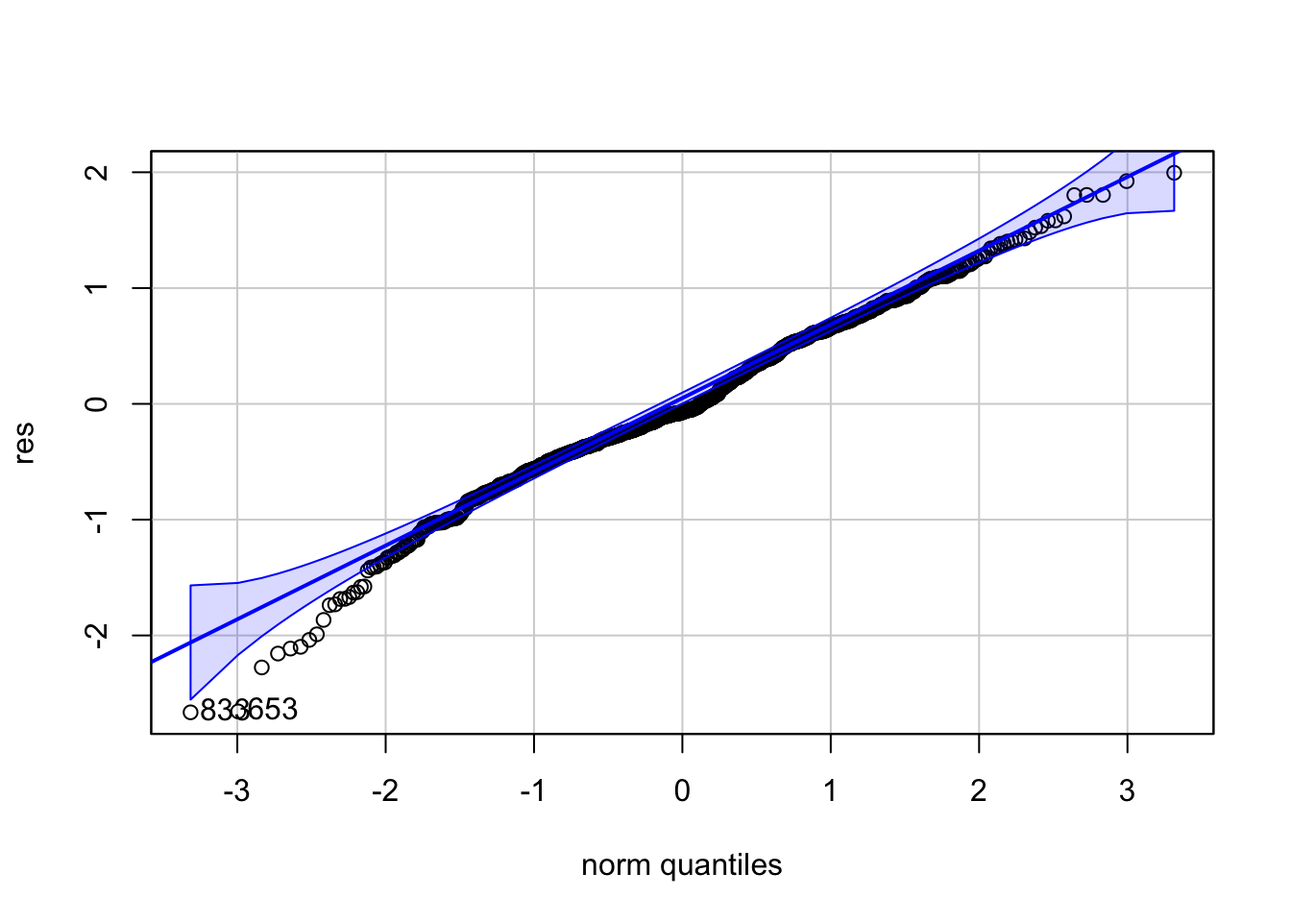
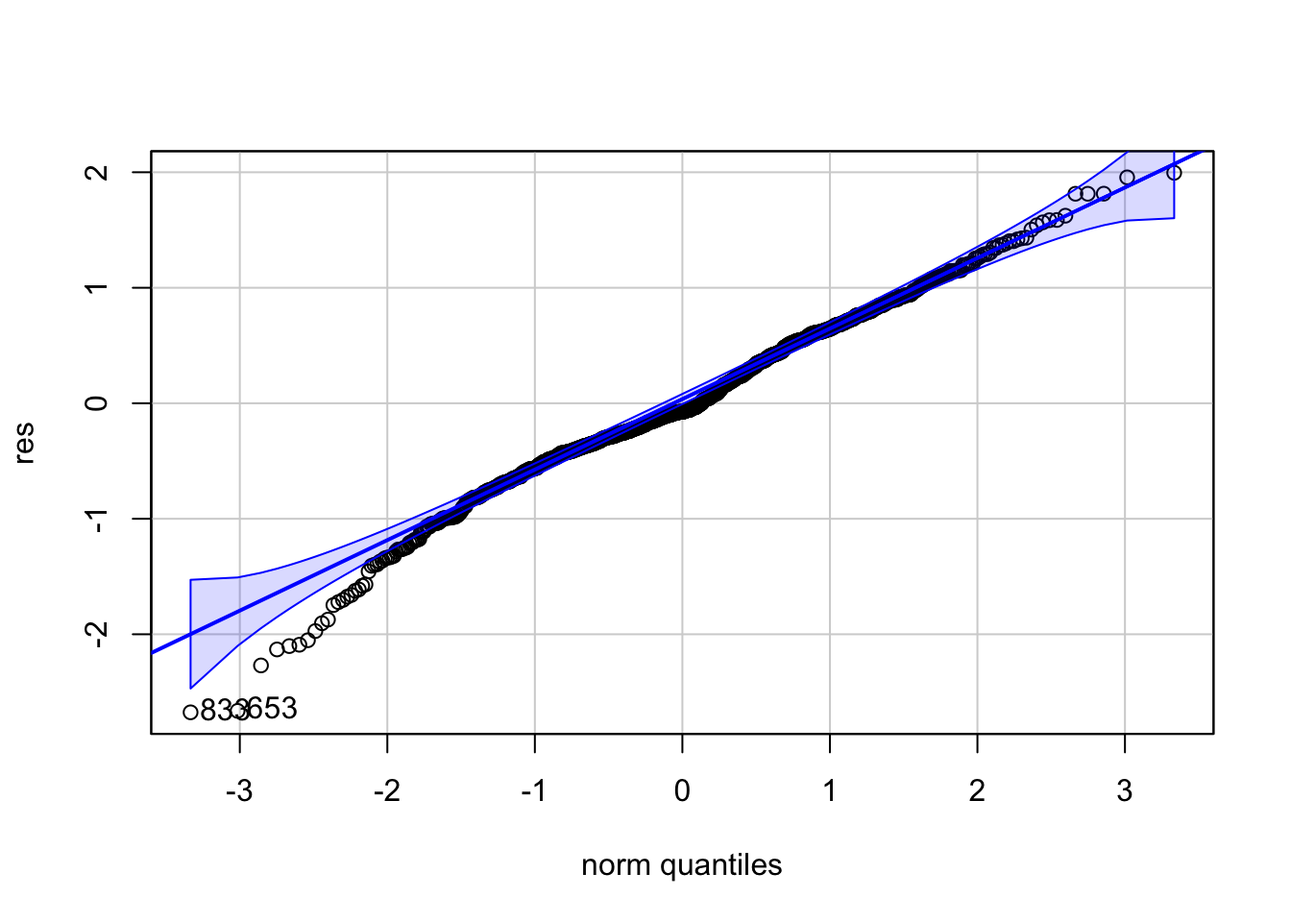
XII1

diff --git a/docs/session3.html b/docs/session3.html
@@ -421,7 +421,10 @@ div.tocify {
   <a href="session2.html">Lesson 2</a>
 </li>
 <li>
-  <a href="lesson_three.html">Lesson 3</a>
+  <a href="session3.html">Lesson 3</a>
+</li>
+<li>
+  <a href="session4.html">Lesson 4</a>
 </li>
       </ul>
       <ul class="nav navbar-nav navbar-right">
@@ -731,45 +734,61 @@ density 9 - pH 10 - sulphates 11 - alcohol</p>
 <span id="cb3-2"><a href="#cb3-2" tabindex="-1"></a><span class="fu">library</span>(tibble)</span>
 <span id="cb3-3"><a href="#cb3-3" tabindex="-1"></a><span class="fu">library</span>(tidyr)</span>
 <span id="cb3-4"><a href="#cb3-4" tabindex="-1"></a><span class="fu">library</span>(ggplot2)</span>
-<span id="cb3-5"><a href="#cb3-5" tabindex="-1"></a><span class="fu">library</span>(corrplot)</span>
-<span id="cb3-6"><a href="#cb3-6" tabindex="-1"></a><span class="fu">library</span>(car)</span>
-<span id="cb3-7"><a href="#cb3-7" tabindex="-1"></a><span class="fu">library</span>(caret)</span></code></pre></div>
+<span id="cb3-5"><a href="#cb3-5" tabindex="-1"></a><span class="fu">library</span>(corrplot)</span></code></pre></div>
+<pre><code>## corrplot 0.92 loaded</code></pre>
+<div class="sourceCode" id="cb5"><pre class="sourceCode r"><code class="sourceCode r"><span id="cb5-1"><a href="#cb5-1" tabindex="-1"></a><span class="fu">library</span>(car)</span></code></pre></div>
+<pre><code>## Loading required package: carData</code></pre>
+<pre><code>## 
+## Attaching package: &#39;car&#39;</code></pre>
+<pre><code>## The following object is masked from &#39;package:dplyr&#39;:
+## 
+##     recode</code></pre>
+<pre><code>## The following object is masked from &#39;package:purrr&#39;:
+## 
+##     some</code></pre>
+<div class="sourceCode" id="cb10"><pre class="sourceCode r"><code class="sourceCode r"><span id="cb10-1"><a href="#cb10-1" tabindex="-1"></a><span class="fu">library</span>(caret)</span></code></pre></div>
+<pre><code>## Loading required package: lattice</code></pre>
+<pre><code>## 
+## Attaching package: &#39;caret&#39;</code></pre>
+<pre><code>## The following object is masked from &#39;package:purrr&#39;:
+## 
+##     lift</code></pre>
 <p><br />
 <br />
 </p>
 </div>
 <div id="data-import" class="section level4">
 <h4>Data Import</h4>
-<div class="sourceCode" id="cb4"><pre class="sourceCode r"><code class="sourceCode r"><span id="cb4-1"><a href="#cb4-1" tabindex="-1"></a><span class="co"># if file does not exist, download it first</span></span>
-<span id="cb4-2"><a href="#cb4-2" tabindex="-1"></a>file_path <span class="ot">&lt;-</span> <span class="st">&quot;./data/winequality-red.csv&quot;</span></span>
-<span id="cb4-3"><a href="#cb4-3" tabindex="-1"></a><span class="cf">if</span> (<span class="sc">!</span><span class="fu">file.exists</span>(file_path)) {</span>
-<span id="cb4-4"><a href="#cb4-4" tabindex="-1"></a>  <span class="fu">dir.create</span>(<span class="st">&quot;./data&quot;</span>)</span>
-<span id="cb4-5"><a href="#cb4-5" tabindex="-1"></a>  url <span class="ot">&lt;-</span> <span class="st">&quot;https://archive.ics.uci.edu/ml/machine-learning-databases/wine-quality/winequality-red.csv&quot;</span></span>
-<span id="cb4-6"><a href="#cb4-6" tabindex="-1"></a>  <span class="fu">download.file</span>(<span class="at">url =</span> url, </span>
-<span id="cb4-7"><a href="#cb4-7" tabindex="-1"></a>                <span class="at">destfile =</span> file_path)</span>
-<span id="cb4-8"><a href="#cb4-8" tabindex="-1"></a>}</span>
-<span id="cb4-9"><a href="#cb4-9" tabindex="-1"></a></span>
-<span id="cb4-10"><a href="#cb4-10" tabindex="-1"></a>df <span class="ot">&lt;-</span> <span class="fu">read.csv</span>(file_path, <span class="at">sep =</span> <span class="st">&quot;;&quot;</span>)</span></code></pre></div>
+<div class="sourceCode" id="cb14"><pre class="sourceCode r"><code class="sourceCode r"><span id="cb14-1"><a href="#cb14-1" tabindex="-1"></a><span class="co"># if file does not exist, download it first</span></span>
+<span id="cb14-2"><a href="#cb14-2" tabindex="-1"></a>file_path <span class="ot">&lt;-</span> <span class="st">&quot;./data/winequality-red.csv&quot;</span></span>
+<span id="cb14-3"><a href="#cb14-3" tabindex="-1"></a><span class="cf">if</span> (<span class="sc">!</span><span class="fu">file.exists</span>(file_path)) {</span>
+<span id="cb14-4"><a href="#cb14-4" tabindex="-1"></a>  <span class="fu">dir.create</span>(<span class="st">&quot;./data&quot;</span>)</span>
+<span id="cb14-5"><a href="#cb14-5" tabindex="-1"></a>  url <span class="ot">&lt;-</span> <span class="st">&quot;https://archive.ics.uci.edu/ml/machine-learning-databases/wine-quality/winequality-red.csv&quot;</span></span>
+<span id="cb14-6"><a href="#cb14-6" tabindex="-1"></a>  <span class="fu">download.file</span>(<span class="at">url =</span> url, </span>
+<span id="cb14-7"><a href="#cb14-7" tabindex="-1"></a>                <span class="at">destfile =</span> file_path)</span>
+<span id="cb14-8"><a href="#cb14-8" tabindex="-1"></a>}</span>
+<span id="cb14-9"><a href="#cb14-9" tabindex="-1"></a></span>
+<span id="cb14-10"><a href="#cb14-10" tabindex="-1"></a>df <span class="ot">&lt;-</span> <span class="fu">read.csv</span>(file_path, <span class="at">sep =</span> <span class="st">&quot;;&quot;</span>)</span></code></pre></div>
 <p><br />
 </p>
 </div>
 <div id="data-summary" class="section level4">
 <h4>Data Summary</h4>
-<div class="sourceCode" id="cb5"><pre class="sourceCode r"><code class="sourceCode r"><span id="cb5-1"><a href="#cb5-1" tabindex="-1"></a><span class="fu">summary</span>(df)</span></code></pre></div>
-<pre><code>##  fixed.acidity    volatile.acidity  citric.acid     residual.sugar     chlorides       free.sulfur.dioxide total.sulfur.dioxide    density      
-##  Min.   : 4.600   Min.   :0.1200   Min.   :0.0000   Min.   : 0.900   Min.   :0.01200   Min.   : 1.00       Min.   :  6.00       Min.   :0.9901  
-##  1st Qu.: 7.400   1st Qu.:0.3900   1st Qu.:0.1200   1st Qu.: 1.900   1st Qu.:0.07200   1st Qu.: 7.00       1st Qu.: 22.00       1st Qu.:0.9962  
-##  Median : 8.300   Median :0.5100   Median :0.2850   Median : 2.300   Median :0.08100   Median :13.00       Median : 38.00       Median :0.9972  
-##  Mean   : 8.703   Mean   :0.5226   Mean   :0.2963   Mean   : 2.584   Mean   :0.08977   Mean   :15.28       Mean   : 47.69       Mean   :0.9972  
-##  3rd Qu.: 9.800   3rd Qu.:0.6300   3rd Qu.:0.4700   3rd Qu.: 2.700   3rd Qu.:0.09300   3rd Qu.:21.00       3rd Qu.: 63.00       3rd Qu.:0.9982  
-##  Max.   :15.900   Max.   :1.3300   Max.   :1.0000   Max.   :15.500   Max.   :0.61100   Max.   :68.00       Max.   :289.00       Max.   :1.0032  
-##                                                     NA&#39;s   :1        NA&#39;s   :1         NA&#39;s   :1           NA&#39;s   :1            NA&#39;s   :1       
+<div class="sourceCode" id="cb15"><pre class="sourceCode r"><code class="sourceCode r"><span id="cb15-1"><a href="#cb15-1" tabindex="-1"></a><span class="fu">summary</span>(df)</span></code></pre></div>
+<pre><code>##  fixed.acidity    volatile.acidity  citric.acid     residual.sugar     chlorides      free.sulfur.dioxide total.sulfur.dioxide    density      
+##  Min.   : 4.600   Min.   :0.1200   Min.   :0.0000   Min.   : 0.900   Min.   :0.0120   Min.   : 1.00       Min.   :  6.00       Min.   :0.9901  
+##  1st Qu.: 7.400   1st Qu.:0.3900   1st Qu.:0.1200   1st Qu.: 1.900   1st Qu.:0.0710   1st Qu.: 7.00       1st Qu.: 21.50       1st Qu.:0.9961  
+##  Median : 8.300   Median :0.5000   Median :0.2900   Median : 2.200   Median :0.0810   Median :13.00       Median : 38.00       Median :0.9971  
+##  Mean   : 8.655   Mean   :0.5183   Mean   :0.2954   Mean   : 2.567   Mean   :0.0895   Mean   :15.25       Mean   : 46.92       Mean   :0.9971  
+##  3rd Qu.: 9.600   3rd Qu.:0.6300   3rd Qu.:0.4600   3rd Qu.: 2.700   3rd Qu.:0.0920   3rd Qu.:21.00       3rd Qu.: 63.00       3rd Qu.:0.9982  
+##  Max.   :15.900   Max.   :1.3300   Max.   :1.0000   Max.   :15.500   Max.   :0.6110   Max.   :68.00       Max.   :289.00       Max.   :1.0032  
+##                                                                                                           NA&#39;s   :1            NA&#39;s   :1       
 ##        pH          sulphates         alcohol         quality     
 ##  Min.   :2.740   Min.   :0.3300   Min.   : 8.40   Min.   :3.000  
 ##  1st Qu.:3.190   1st Qu.:0.5600   1st Qu.: 9.50   1st Qu.:5.000  
 ##  Median :3.300   Median :0.6200   Median :10.00   Median :6.000  
-##  Mean   :3.296   Mean   :0.6666   Mean   :10.31   Mean   :5.643  
-##  3rd Qu.:3.390   3rd Qu.:0.7350   3rd Qu.:10.90   3rd Qu.:6.000  
+##  Mean   :3.297   Mean   :0.6666   Mean   :10.37   Mean   :5.663  
+##  3rd Qu.:3.390   3rd Qu.:0.7400   3rd Qu.:11.00   3rd Qu.:6.000  
 ##  Max.   :3.900   Max.   :2.0000   Max.   :14.90   Max.   :8.000  
 ##  NA&#39;s   :1       NA&#39;s   :1        NA&#39;s   :1       NA&#39;s   :1</code></pre>
 </div>
@@ -778,26 +797,26 @@ density 9 - pH 10 - sulphates 11 - alcohol</p>
 <p>There is a way to plot all multivariate correlations (although
 visually not so appealing). It also does not work, if there are many
 dimensions. You need to subset the results.</p>
-<div class="sourceCode" id="cb7"><pre class="sourceCode r"><code class="sourceCode r"><span id="cb7-1"><a href="#cb7-1" tabindex="-1"></a><span class="fu">pairs</span>(df[, <span class="dv">8</span><span class="sc">:</span><span class="dv">12</span>])</span></code></pre></div>
+<div class="sourceCode" id="cb17"><pre class="sourceCode r"><code class="sourceCode r"><span id="cb17-1"><a href="#cb17-1" tabindex="-1"></a><span class="fu">pairs</span>(df[, <span class="dv">8</span><span class="sc">:</span><span class="dv">12</span>])</span></code></pre></div>
 <p><img src="session3_files/figure-html/unnamed-chunk-4-1.png" width="672" /></p>
 <p>We create our own visualisation, that is much better to read.</p>
-<div class="sourceCode" id="cb8"><pre class="sourceCode r"><code class="sourceCode r"><span id="cb8-1"><a href="#cb8-1" tabindex="-1"></a>df_scaled <span class="ot">&lt;-</span> df <span class="sc">%&gt;%</span> </span>
-<span id="cb8-2"><a href="#cb8-2" tabindex="-1"></a>  <span class="fu">scale</span>() <span class="sc">%&gt;%</span> </span>
-<span id="cb8-3"><a href="#cb8-3" tabindex="-1"></a>  <span class="fu">as.tibble</span>()</span></code></pre></div>
+<div class="sourceCode" id="cb18"><pre class="sourceCode r"><code class="sourceCode r"><span id="cb18-1"><a href="#cb18-1" tabindex="-1"></a>df_scaled <span class="ot">&lt;-</span> df <span class="sc">%&gt;%</span> </span>
+<span id="cb18-2"><a href="#cb18-2" tabindex="-1"></a>  <span class="fu">scale</span>() <span class="sc">%&gt;%</span> </span>
+<span id="cb18-3"><a href="#cb18-3" tabindex="-1"></a>  <span class="fu">as.tibble</span>()</span></code></pre></div>
 <pre><code>## Warning: `as.tibble()` was deprecated in tibble 2.0.0.
 ## ℹ Please use `as_tibble()` instead.
 ## ℹ The signature and semantics have changed, see `?as_tibble`.
 ## This warning is displayed once every 8 hours.
 ## Call `lifecycle::last_lifecycle_warnings()` to see where this warning was generated.</code></pre>
-<div class="sourceCode" id="cb10"><pre class="sourceCode r"><code class="sourceCode r"><span id="cb10-1"><a href="#cb10-1" tabindex="-1"></a>df_gather <span class="ot">&lt;-</span> df_scaled <span class="sc">%&gt;%</span> </span>
-<span id="cb10-2"><a href="#cb10-2" tabindex="-1"></a>  <span class="fu">gather</span>(<span class="at">key =</span> <span class="st">&quot;variable&quot;</span>, <span class="at">value =</span> <span class="st">&quot;value&quot;</span>, <span class="dv">1</span><span class="sc">:</span><span class="dv">11</span>) <span class="sc">%&gt;%</span> </span>
-<span id="cb10-3"><a href="#cb10-3" tabindex="-1"></a>  <span class="fu">mutate</span>(<span class="at">variable =</span> <span class="fu">as.factor</span>(variable))</span>
-<span id="cb10-4"><a href="#cb10-4" tabindex="-1"></a></span>
-<span id="cb10-5"><a href="#cb10-5" tabindex="-1"></a>g <span class="ot">&lt;-</span><span class="fu">ggplot</span>(df_gather, <span class="fu">aes</span>(<span class="at">x =</span> quality, <span class="at">y =</span> value))</span>
-<span id="cb10-6"><a href="#cb10-6" tabindex="-1"></a>g <span class="ot">&lt;-</span> g <span class="sc">+</span> <span class="fu">facet_wrap</span>( <span class="sc">~</span> variable)</span>
-<span id="cb10-7"><a href="#cb10-7" tabindex="-1"></a>g <span class="ot">&lt;-</span> g <span class="sc">+</span> <span class="fu">geom_point</span>()</span>
-<span id="cb10-8"><a href="#cb10-8" tabindex="-1"></a>g <span class="ot">&lt;-</span> g <span class="sc">+</span> <span class="fu">geom_smooth</span>(<span class="at">se =</span> F, <span class="at">method =</span> <span class="st">&quot;lm&quot;</span>)</span>
-<span id="cb10-9"><a href="#cb10-9" tabindex="-1"></a>g</span></code></pre></div>
+<div class="sourceCode" id="cb20"><pre class="sourceCode r"><code class="sourceCode r"><span id="cb20-1"><a href="#cb20-1" tabindex="-1"></a>df_gather <span class="ot">&lt;-</span> df_scaled <span class="sc">%&gt;%</span> </span>
+<span id="cb20-2"><a href="#cb20-2" tabindex="-1"></a>  <span class="fu">gather</span>(<span class="at">key =</span> <span class="st">&quot;variable&quot;</span>, <span class="at">value =</span> <span class="st">&quot;value&quot;</span>, <span class="dv">1</span><span class="sc">:</span><span class="dv">11</span>) <span class="sc">%&gt;%</span> </span>
+<span id="cb20-3"><a href="#cb20-3" tabindex="-1"></a>  <span class="fu">mutate</span>(<span class="at">variable =</span> <span class="fu">as.factor</span>(variable))</span>
+<span id="cb20-4"><a href="#cb20-4" tabindex="-1"></a></span>
+<span id="cb20-5"><a href="#cb20-5" tabindex="-1"></a>g <span class="ot">&lt;-</span><span class="fu">ggplot</span>(df_gather, <span class="fu">aes</span>(<span class="at">x =</span> quality, <span class="at">y =</span> value))</span>
+<span id="cb20-6"><a href="#cb20-6" tabindex="-1"></a>g <span class="ot">&lt;-</span> g <span class="sc">+</span> <span class="fu">facet_wrap</span>( <span class="sc">~</span> variable)</span>
+<span id="cb20-7"><a href="#cb20-7" tabindex="-1"></a>g <span class="ot">&lt;-</span> g <span class="sc">+</span> <span class="fu">geom_point</span>()</span>
+<span id="cb20-8"><a href="#cb20-8" tabindex="-1"></a>g <span class="ot">&lt;-</span> g <span class="sc">+</span> <span class="fu">geom_smooth</span>(<span class="at">se =</span> F, <span class="at">method =</span> <span class="st">&quot;lm&quot;</span>)</span>
+<span id="cb20-9"><a href="#cb20-9" tabindex="-1"></a>g</span></code></pre></div>
 <pre><code>## `geom_smooth()` using formula = &#39;y ~ x&#39;</code></pre>
 <pre><code>## Warning: Removed 11 rows containing non-finite values (`stat_smooth()`).</code></pre>
 <pre><code>## Warning: Removed 11 rows containing missing values (`geom_point()`).</code></pre>
@@ -807,22 +826,22 @@ dimensions. You need to subset the results.</p>
 <h4>Correlation Matrix</h4>
 <p>Assuming there is a linear relationship between variables, a
 correlation matrix is calculated.</p>
-<div class="sourceCode" id="cb14"><pre class="sourceCode r"><code class="sourceCode r"><span id="cb14-1"><a href="#cb14-1" tabindex="-1"></a>cor_vals <span class="ot">&lt;-</span> <span class="fu">cor</span>(df) <span class="sc">%&gt;%</span> </span>
-<span id="cb14-2"><a href="#cb14-2" tabindex="-1"></a>  <span class="fu">as.data.frame</span>() <span class="sc">%&gt;%</span> </span>
-<span id="cb14-3"><a href="#cb14-3" tabindex="-1"></a>  dplyr<span class="sc">::</span><span class="fu">mutate</span>(<span class="at">Var1 =</span> <span class="fu">rownames</span>(.)) <span class="sc">%&gt;%</span> </span>
-<span id="cb14-4"><a href="#cb14-4" tabindex="-1"></a>  <span class="fu">gather</span>(<span class="at">key =</span> <span class="st">&quot;Var2&quot;</span>, <span class="at">value =</span> <span class="st">&quot;Corr&quot;</span>, <span class="dv">1</span><span class="sc">:</span><span class="dv">12</span>)</span>
-<span id="cb14-5"><a href="#cb14-5" tabindex="-1"></a>g <span class="ot">&lt;-</span> <span class="fu">ggplot</span>(cor_vals, <span class="fu">aes</span>(<span class="at">x =</span> Var1, <span class="at">y =</span> Var2, <span class="at">fill =</span> Corr))</span>
-<span id="cb14-6"><a href="#cb14-6" tabindex="-1"></a>g <span class="ot">&lt;-</span> g <span class="sc">+</span> <span class="fu">geom_tile</span>()</span>
-<span id="cb14-7"><a href="#cb14-7" tabindex="-1"></a>g <span class="ot">&lt;-</span> g <span class="sc">+</span> <span class="fu">scale_fill_gradient2</span>(<span class="at">low =</span> <span class="st">&quot;blue&quot;</span>, <span class="at">high =</span> <span class="st">&quot;red&quot;</span>, <span class="at">mid =</span> <span class="st">&quot;white&quot;</span>, </span>
-<span id="cb14-8"><a href="#cb14-8" tabindex="-1"></a>   <span class="at">midpoint =</span> <span class="dv">0</span>, <span class="at">limit =</span> <span class="fu">c</span>(<span class="sc">-</span><span class="dv">1</span>,<span class="dv">1</span>), <span class="at">space =</span> <span class="st">&quot;Lab&quot;</span>, </span>
-<span id="cb14-9"><a href="#cb14-9" tabindex="-1"></a>   <span class="at">name=</span><span class="st">&quot;Pearson</span><span class="sc">\n</span><span class="st">Correlation&quot;</span>)</span>
-<span id="cb14-10"><a href="#cb14-10" tabindex="-1"></a>g <span class="ot">&lt;-</span> g <span class="sc">+</span> <span class="fu">theme</span>(<span class="at">axis.text.x =</span> <span class="fu">element_text</span>(<span class="at">angle =</span> <span class="dv">90</span>, <span class="at">hjust =</span> <span class="dv">1</span>))</span>
-<span id="cb14-11"><a href="#cb14-11" tabindex="-1"></a>g</span></code></pre></div>
+<div class="sourceCode" id="cb24"><pre class="sourceCode r"><code class="sourceCode r"><span id="cb24-1"><a href="#cb24-1" tabindex="-1"></a>cor_vals <span class="ot">&lt;-</span> <span class="fu">cor</span>(df) <span class="sc">%&gt;%</span> </span>
+<span id="cb24-2"><a href="#cb24-2" tabindex="-1"></a>  <span class="fu">as.data.frame</span>() <span class="sc">%&gt;%</span> </span>
+<span id="cb24-3"><a href="#cb24-3" tabindex="-1"></a>  dplyr<span class="sc">::</span><span class="fu">mutate</span>(<span class="at">Var1 =</span> <span class="fu">rownames</span>(.)) <span class="sc">%&gt;%</span> </span>
+<span id="cb24-4"><a href="#cb24-4" tabindex="-1"></a>  <span class="fu">gather</span>(<span class="at">key =</span> <span class="st">&quot;Var2&quot;</span>, <span class="at">value =</span> <span class="st">&quot;Corr&quot;</span>, <span class="dv">1</span><span class="sc">:</span><span class="dv">12</span>)</span>
+<span id="cb24-5"><a href="#cb24-5" tabindex="-1"></a>g <span class="ot">&lt;-</span> <span class="fu">ggplot</span>(cor_vals, <span class="fu">aes</span>(<span class="at">x =</span> Var1, <span class="at">y =</span> Var2, <span class="at">fill =</span> Corr))</span>
+<span id="cb24-6"><a href="#cb24-6" tabindex="-1"></a>g <span class="ot">&lt;-</span> g <span class="sc">+</span> <span class="fu">geom_tile</span>()</span>
+<span id="cb24-7"><a href="#cb24-7" tabindex="-1"></a>g <span class="ot">&lt;-</span> g <span class="sc">+</span> <span class="fu">scale_fill_gradient2</span>(<span class="at">low =</span> <span class="st">&quot;blue&quot;</span>, <span class="at">high =</span> <span class="st">&quot;red&quot;</span>, <span class="at">mid =</span> <span class="st">&quot;white&quot;</span>, </span>
+<span id="cb24-8"><a href="#cb24-8" tabindex="-1"></a>   <span class="at">midpoint =</span> <span class="dv">0</span>, <span class="at">limit =</span> <span class="fu">c</span>(<span class="sc">-</span><span class="dv">1</span>,<span class="dv">1</span>), <span class="at">space =</span> <span class="st">&quot;Lab&quot;</span>, </span>
+<span id="cb24-9"><a href="#cb24-9" tabindex="-1"></a>   <span class="at">name=</span><span class="st">&quot;Pearson</span><span class="sc">\n</span><span class="st">Correlation&quot;</span>)</span>
+<span id="cb24-10"><a href="#cb24-10" tabindex="-1"></a>g <span class="ot">&lt;-</span> g <span class="sc">+</span> <span class="fu">theme</span>(<span class="at">axis.text.x =</span> <span class="fu">element_text</span>(<span class="at">angle =</span> <span class="dv">90</span>, <span class="at">hjust =</span> <span class="dv">1</span>))</span>
+<span id="cb24-11"><a href="#cb24-11" tabindex="-1"></a>g</span></code></pre></div>
 <p><img src="session3_files/figure-html/unnamed-chunk-6-1.png" width="672" /></p>
 <p>Also here we can make use of a simpler alternative:
 <strong>corrplot()</strong>.</p>
-<div class="sourceCode" id="cb15"><pre class="sourceCode r"><code class="sourceCode r"><span id="cb15-1"><a href="#cb15-1" tabindex="-1"></a>cor_df <span class="ot">&lt;-</span> <span class="fu">cor</span>(df)</span>
-<span id="cb15-2"><a href="#cb15-2" tabindex="-1"></a><span class="fu">corrplot.mixed</span>(cor_df)</span></code></pre></div>
+<div class="sourceCode" id="cb25"><pre class="sourceCode r"><code class="sourceCode r"><span id="cb25-1"><a href="#cb25-1" tabindex="-1"></a>cor_df <span class="ot">&lt;-</span> <span class="fu">cor</span>(df)</span>
+<span id="cb25-2"><a href="#cb25-2" tabindex="-1"></a><span class="fu">corrplot.mixed</span>(cor_df)</span></code></pre></div>
 <p><img src="session3_files/figure-html/unnamed-chunk-7-1.png" width="672" /></p>
 <p>This shows in the upper right triangle correlations as circles. Size
 corresponds to absolute value of correlation. We are looking for large
@@ -839,57 +858,57 @@ leads to a decrese in Y.</p>
 <p>Model Setup</p>
 </blockquote>
 <p>We create a model with <strong>lm()</strong>.</p>
-<div class="sourceCode" id="cb16"><pre class="sourceCode r"><code class="sourceCode r"><span id="cb16-1"><a href="#cb16-1" tabindex="-1"></a>model <span class="ot">&lt;-</span> <span class="fu">lm</span>(<span class="at">formula =</span> <span class="st">&quot;quality ~ .&quot;</span>, <span class="at">data =</span> df)</span></code></pre></div>
-<div class="sourceCode" id="cb17"><pre class="sourceCode r"><code class="sourceCode r"><span id="cb17-1"><a href="#cb17-1" tabindex="-1"></a><span class="fu">summary</span>(model)</span></code></pre></div>
+<div class="sourceCode" id="cb26"><pre class="sourceCode r"><code class="sourceCode r"><span id="cb26-1"><a href="#cb26-1" tabindex="-1"></a>model <span class="ot">&lt;-</span> <span class="fu">lm</span>(<span class="at">formula =</span> <span class="st">&quot;quality ~ .&quot;</span>, <span class="at">data =</span> df)</span></code></pre></div>
+<div class="sourceCode" id="cb27"><pre class="sourceCode r"><code class="sourceCode r"><span id="cb27-1"><a href="#cb27-1" tabindex="-1"></a><span class="fu">summary</span>(model)</span></code></pre></div>
 <pre><code>## 
 ## Call:
 ## lm(formula = &quot;quality ~ .&quot;, data = df)
 ## 
 ## Residuals:
 ##      Min       1Q   Median       3Q      Max 
-## -2.66389 -0.37968 -0.07077  0.47933  1.99549 
+## -2.67579 -0.37501 -0.07354  0.44885  1.99537 
 ## 
 ## Coefficients:
 ##                        Estimate Std. Error t value Pr(&gt;|t|)    
-## (Intercept)           5.217e+01  2.510e+01   2.079   0.0379 *  
-## fixed.acidity         5.215e-02  3.133e-02   1.665   0.0963 .  
-## volatile.acidity     -1.017e+00  1.444e-01  -7.044 3.31e-12 ***
-## citric.acid          -2.670e-01  1.764e-01  -1.514   0.1303    
-## residual.sugar        3.916e-02  1.975e-02   1.983   0.0477 *  
-## chlorides            -1.521e+00  4.911e-01  -3.097   0.0020 ** 
-## free.sulfur.dioxide   2.830e-03  2.765e-03   1.024   0.3061    
-## total.sulfur.dioxide -3.766e-03  8.823e-04  -4.268 2.14e-05 ***
-## density              -4.889e+01  2.563e+01  -1.907   0.0567 .  
-## pH                   -2.374e-01  2.294e-01  -1.035   0.3009    
-## sulphates             7.372e-01  1.295e-01   5.694 1.60e-08 ***
-## alcohol               2.763e-01  3.094e-02   8.929  &lt; 2e-16 ***
+## (Intercept)           5.179e+01  2.440e+01   2.123  0.03399 *  
+## fixed.acidity         5.723e-02  3.051e-02   1.876  0.06095 .  
+## volatile.acidity     -1.021e+00  1.399e-01  -7.299 5.40e-13 ***
+## citric.acid          -2.693e-01  1.703e-01  -1.581  0.11420    
+## residual.sugar        4.450e-02  1.919e-02   2.320  0.02054 *  
+## chlorides            -1.532e+00  4.749e-01  -3.226  0.00129 ** 
+## free.sulfur.dioxide   2.860e-03  2.661e-03   1.075  0.28273    
+## total.sulfur.dioxide -3.750e-03  8.597e-04  -4.362 1.40e-05 ***
+## density              -4.867e+01  2.492e+01  -1.953  0.05106 .  
+## pH                   -1.855e-01  2.212e-01  -0.839  0.40178    
+## sulphates             7.686e-01  1.257e-01   6.112 1.34e-09 ***
+## alcohol               2.675e-01  2.973e-02   8.998  &lt; 2e-16 ***
 ## ---
 ## Signif. codes:  0 &#39;***&#39; 0.001 &#39;**&#39; 0.01 &#39;*&#39; 0.05 &#39;.&#39; 0.1 &#39; &#39; 1
 ## 
-## Residual standard error: 0.6487 on 1079 degrees of freedom
+## Residual standard error: 0.6431 on 1155 degrees of freedom
 ##   (1 observation deleted due to missingness)
-## Multiple R-squared:  0.3717, Adjusted R-squared:  0.3653 
-## F-statistic: 58.03 on 11 and 1079 DF,  p-value: &lt; 2.2e-16</code></pre>
+## Multiple R-squared:  0.3786, Adjusted R-squared:  0.3726 
+## F-statistic: 63.96 on 11 and 1155 DF,  p-value: &lt; 2.2e-16</code></pre>
 <p>We see which parameters are statistically relevant, and what the
 parameter values are.</p>
 <blockquote>
 <p>Predictions</p>
 </blockquote>
 <p>Now, we can create predictions.</p>
-<div class="sourceCode" id="cb19"><pre class="sourceCode r"><code class="sourceCode r"><span id="cb19-1"><a href="#cb19-1" tabindex="-1"></a>df<span class="sc">$</span>quality_pred <span class="ot">&lt;-</span> <span class="fu">predict</span>(<span class="at">object =</span> model, </span>
-<span id="cb19-2"><a href="#cb19-2" tabindex="-1"></a>                              <span class="at">newdata =</span> df)</span></code></pre></div>
+<div class="sourceCode" id="cb29"><pre class="sourceCode r"><code class="sourceCode r"><span id="cb29-1"><a href="#cb29-1" tabindex="-1"></a>df<span class="sc">$</span>quality_pred <span class="ot">&lt;-</span> <span class="fu">predict</span>(<span class="at">object =</span> model, </span>
+<span id="cb29-2"><a href="#cb29-2" tabindex="-1"></a>                              <span class="at">newdata =</span> df)</span></code></pre></div>
 <p>Predicted values and true values are visualised as correlation plot.
 A linear regression line is drawed for reference. Also a black line is
 drawed as reference for a perfect regression, in which predicted values
 and actual values are identical.</p>
-<div class="sourceCode" id="cb20"><pre class="sourceCode r"><code class="sourceCode r"><span id="cb20-1"><a href="#cb20-1" tabindex="-1"></a>g <span class="ot">&lt;-</span> <span class="fu">ggplot</span>(df, <span class="fu">aes</span>(<span class="at">y =</span> quality, <span class="at">x =</span> quality_pred))</span>
-<span id="cb20-2"><a href="#cb20-2" tabindex="-1"></a>g <span class="ot">&lt;-</span> g <span class="sc">+</span> <span class="fu">geom_point</span>(<span class="at">alpha =</span> .<span class="dv">1</span>)</span>
-<span id="cb20-3"><a href="#cb20-3" tabindex="-1"></a>g <span class="ot">&lt;-</span> g <span class="sc">+</span> <span class="fu">geom_smooth</span>(<span class="at">method =</span> <span class="st">&quot;lm&quot;</span>, <span class="at">se =</span> F)</span>
-<span id="cb20-4"><a href="#cb20-4" tabindex="-1"></a>g <span class="ot">&lt;-</span> g <span class="sc">+</span> <span class="fu">geom_abline</span>(<span class="at">slope =</span> <span class="dv">1</span>, <span class="at">intercept =</span> <span class="dv">0</span>)</span>
-<span id="cb20-5"><a href="#cb20-5" tabindex="-1"></a>g <span class="ot">&lt;-</span> g <span class="sc">+</span> <span class="fu">ylab</span> (<span class="st">&quot;Actual&quot;</span>)</span>
-<span id="cb20-6"><a href="#cb20-6" tabindex="-1"></a>g <span class="ot">&lt;-</span> g <span class="sc">+</span> <span class="fu">xlab</span> (<span class="st">&quot;Prediction&quot;</span>)</span>
-<span id="cb20-7"><a href="#cb20-7" tabindex="-1"></a>g <span class="ot">&lt;-</span> g <span class="sc">+</span> <span class="fu">ggtitle</span> (<span class="st">&quot;Prediction vs. Actual&quot;</span>)</span>
-<span id="cb20-8"><a href="#cb20-8" tabindex="-1"></a>g</span></code></pre></div>
+<div class="sourceCode" id="cb30"><pre class="sourceCode r"><code class="sourceCode r"><span id="cb30-1"><a href="#cb30-1" tabindex="-1"></a>g <span class="ot">&lt;-</span> <span class="fu">ggplot</span>(df, <span class="fu">aes</span>(<span class="at">y =</span> quality, <span class="at">x =</span> quality_pred))</span>
+<span id="cb30-2"><a href="#cb30-2" tabindex="-1"></a>g <span class="ot">&lt;-</span> g <span class="sc">+</span> <span class="fu">geom_point</span>(<span class="at">alpha =</span> .<span class="dv">1</span>)</span>
+<span id="cb30-3"><a href="#cb30-3" tabindex="-1"></a>g <span class="ot">&lt;-</span> g <span class="sc">+</span> <span class="fu">geom_smooth</span>(<span class="at">method =</span> <span class="st">&quot;lm&quot;</span>, <span class="at">se =</span> F)</span>
+<span id="cb30-4"><a href="#cb30-4" tabindex="-1"></a>g <span class="ot">&lt;-</span> g <span class="sc">+</span> <span class="fu">geom_abline</span>(<span class="at">slope =</span> <span class="dv">1</span>, <span class="at">intercept =</span> <span class="dv">0</span>)</span>
+<span id="cb30-5"><a href="#cb30-5" tabindex="-1"></a>g <span class="ot">&lt;-</span> g <span class="sc">+</span> <span class="fu">ylab</span> (<span class="st">&quot;Actual&quot;</span>)</span>
+<span id="cb30-6"><a href="#cb30-6" tabindex="-1"></a>g <span class="ot">&lt;-</span> g <span class="sc">+</span> <span class="fu">xlab</span> (<span class="st">&quot;Prediction&quot;</span>)</span>
+<span id="cb30-7"><a href="#cb30-7" tabindex="-1"></a>g <span class="ot">&lt;-</span> g <span class="sc">+</span> <span class="fu">ggtitle</span> (<span class="st">&quot;Prediction vs. Actual&quot;</span>)</span>
+<span id="cb30-8"><a href="#cb30-8" tabindex="-1"></a>g</span></code></pre></div>
 <pre><code>## `geom_smooth()` using formula = &#39;y ~ x&#39;</code></pre>
 <pre><code>## Warning: Removed 1 rows containing non-finite values (`stat_smooth()`).</code></pre>
 <pre><code>## Warning: Removed 1 rows containing missing values (`geom_point()`).</code></pre>
@@ -902,9 +921,9 @@ there is hardly any bias. But the variation is quite high.</p>
 <p>We calculate adjusted R-squared to analyse model performance.
 R-squared is a measure that indicates how much of variability in data is
 explained by the model.</p>
-<div class="sourceCode" id="cb24"><pre class="sourceCode r"><code class="sourceCode r"><span id="cb24-1"><a href="#cb24-1" tabindex="-1"></a>model_summary <span class="ot">&lt;-</span> <span class="fu">summary</span>(model)</span>
-<span id="cb24-2"><a href="#cb24-2" tabindex="-1"></a>model_summary<span class="sc">$</span>adj.r.squared</span></code></pre></div>
-<pre><code>## [1] 0.3653133</code></pre>
+<div class="sourceCode" id="cb34"><pre class="sourceCode r"><code class="sourceCode r"><span id="cb34-1"><a href="#cb34-1" tabindex="-1"></a>model_summary <span class="ot">&lt;-</span> <span class="fu">summary</span>(model)</span>
+<span id="cb34-2"><a href="#cb34-2" tabindex="-1"></a>model_summary<span class="sc">$</span>adj.r.squared</span></code></pre></div>
+<pre><code>## [1] 0.3726382</code></pre>
 <p>Only 35 % of variability in the data is explained by the model. That
 is rather poor, so we should think about some more complex model.</p>
 <p>You should use adjusted R-squared, because R-squared always increases
@@ -918,8 +937,8 @@ always be less or equal to R-squared.</p>
 check this based on a QQ-plot. We extract the residuals and visualise it
 with <strong>qqnorm()</strong>. <strong>qqline()</strong> adds a
 reference line. We assume linearity if all points are on this line.</p>
-<div class="sourceCode" id="cb26"><pre class="sourceCode r"><code class="sourceCode r"><span id="cb26-1"><a href="#cb26-1" tabindex="-1"></a>res <span class="ot">&lt;-</span> <span class="fu">residuals</span>(<span class="at">object =</span> model)</span>
-<span id="cb26-2"><a href="#cb26-2" tabindex="-1"></a><span class="fu">qqPlot</span>(res)</span></code></pre></div>
+<div class="sourceCode" id="cb36"><pre class="sourceCode r"><code class="sourceCode r"><span id="cb36-1"><a href="#cb36-1" tabindex="-1"></a>res <span class="ot">&lt;-</span> <span class="fu">residuals</span>(<span class="at">object =</span> model)</span>
+<span id="cb36-2"><a href="#cb36-2" tabindex="-1"></a><span class="fu">qqPlot</span>(res)</span></code></pre></div>
 <p><img src="session3_files/figure-html/unnamed-chunk-12-1.png" width="672" /></p>
 <pre><code>## [1] 833 653</code></pre>
 <p><br />

diff --git a/docs/about.html b/docs/about.html
@@ -244,7 +244,10 @@ $(document).ready(function () {
   <a href="session2.html">Lesson 2</a>
 </li>
 <li>
-  <a href="lesson_three.html">Lesson 3</a>
+  <a href="session3.html">Lesson 3</a>
+</li>
+<li>
+  <a href="session4.html">Lesson 4</a>
 </li>
       </ul>
       <ul class="nav navbar-nav navbar-right">
